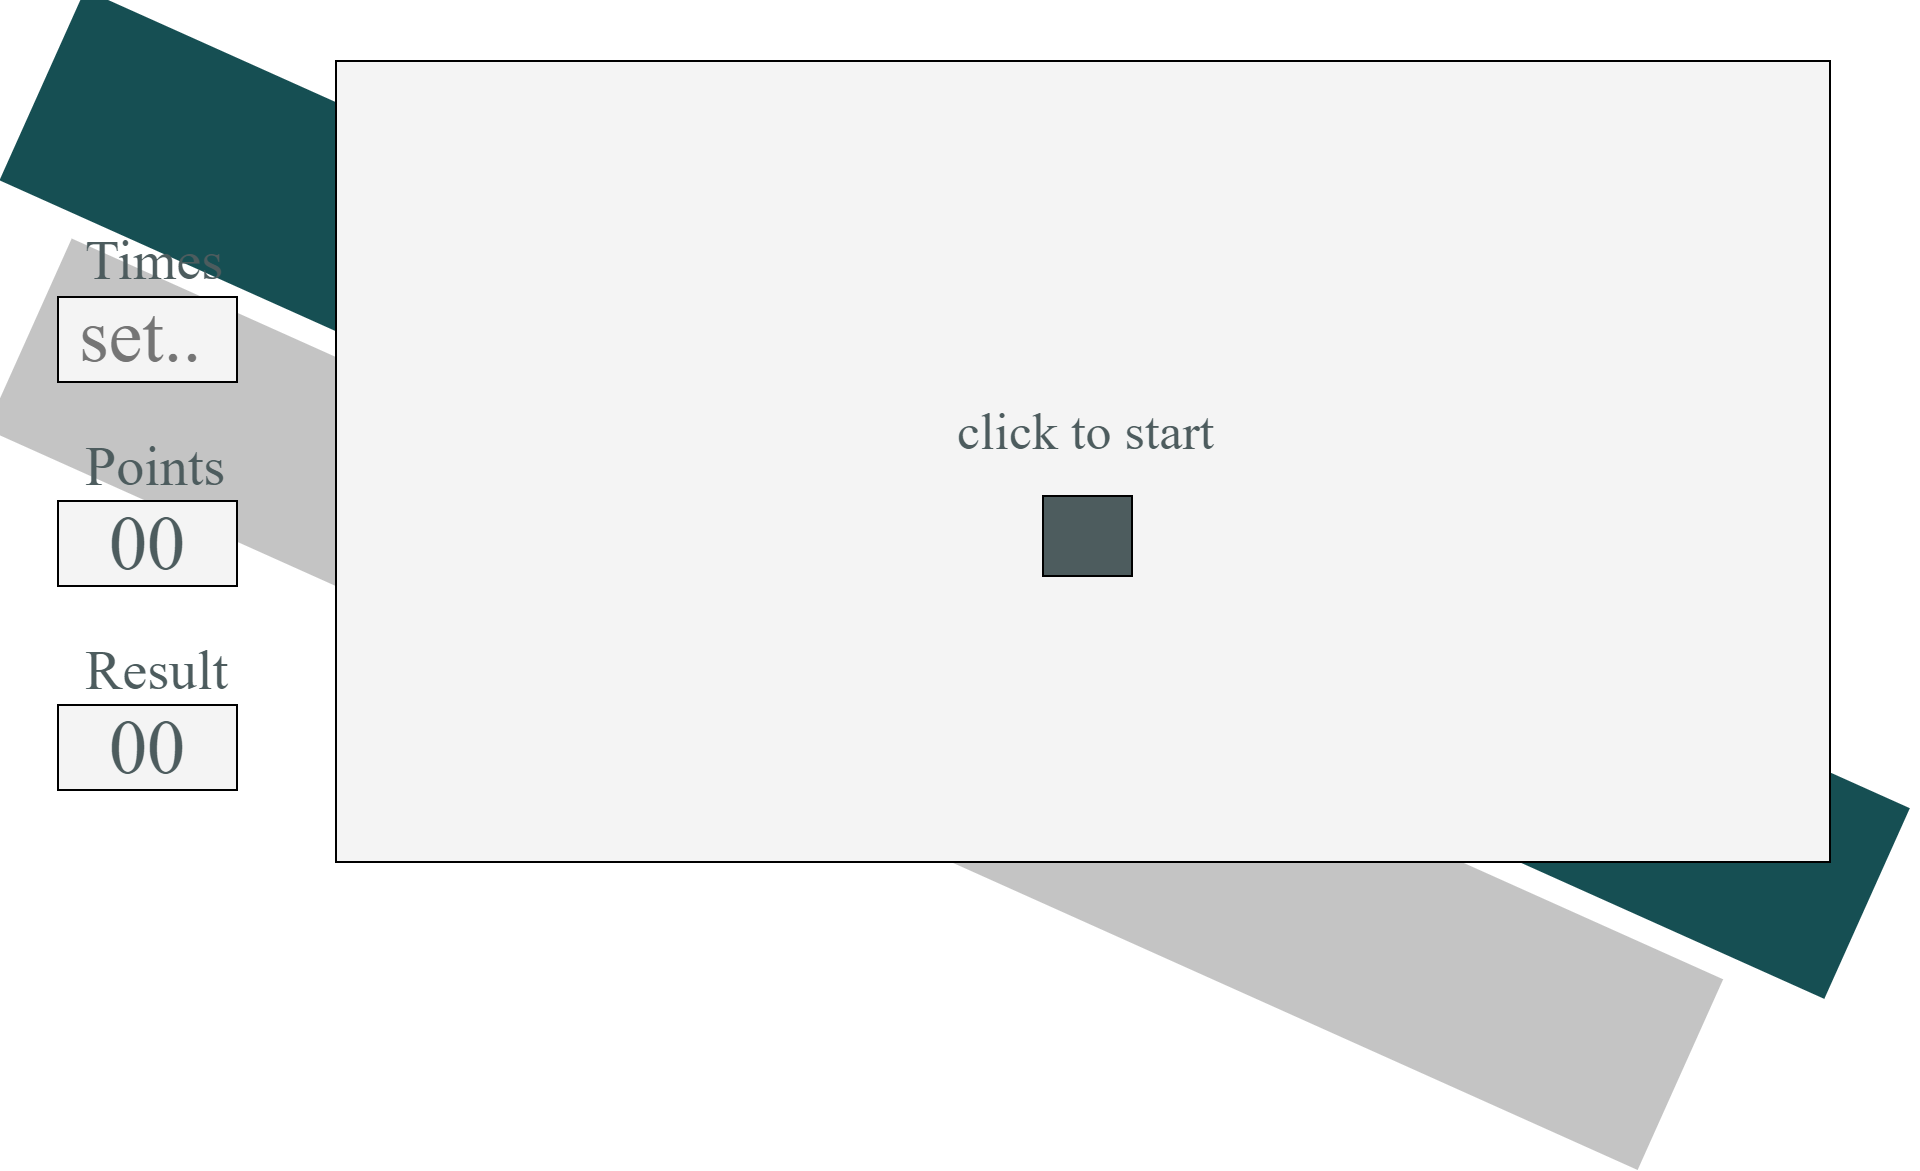
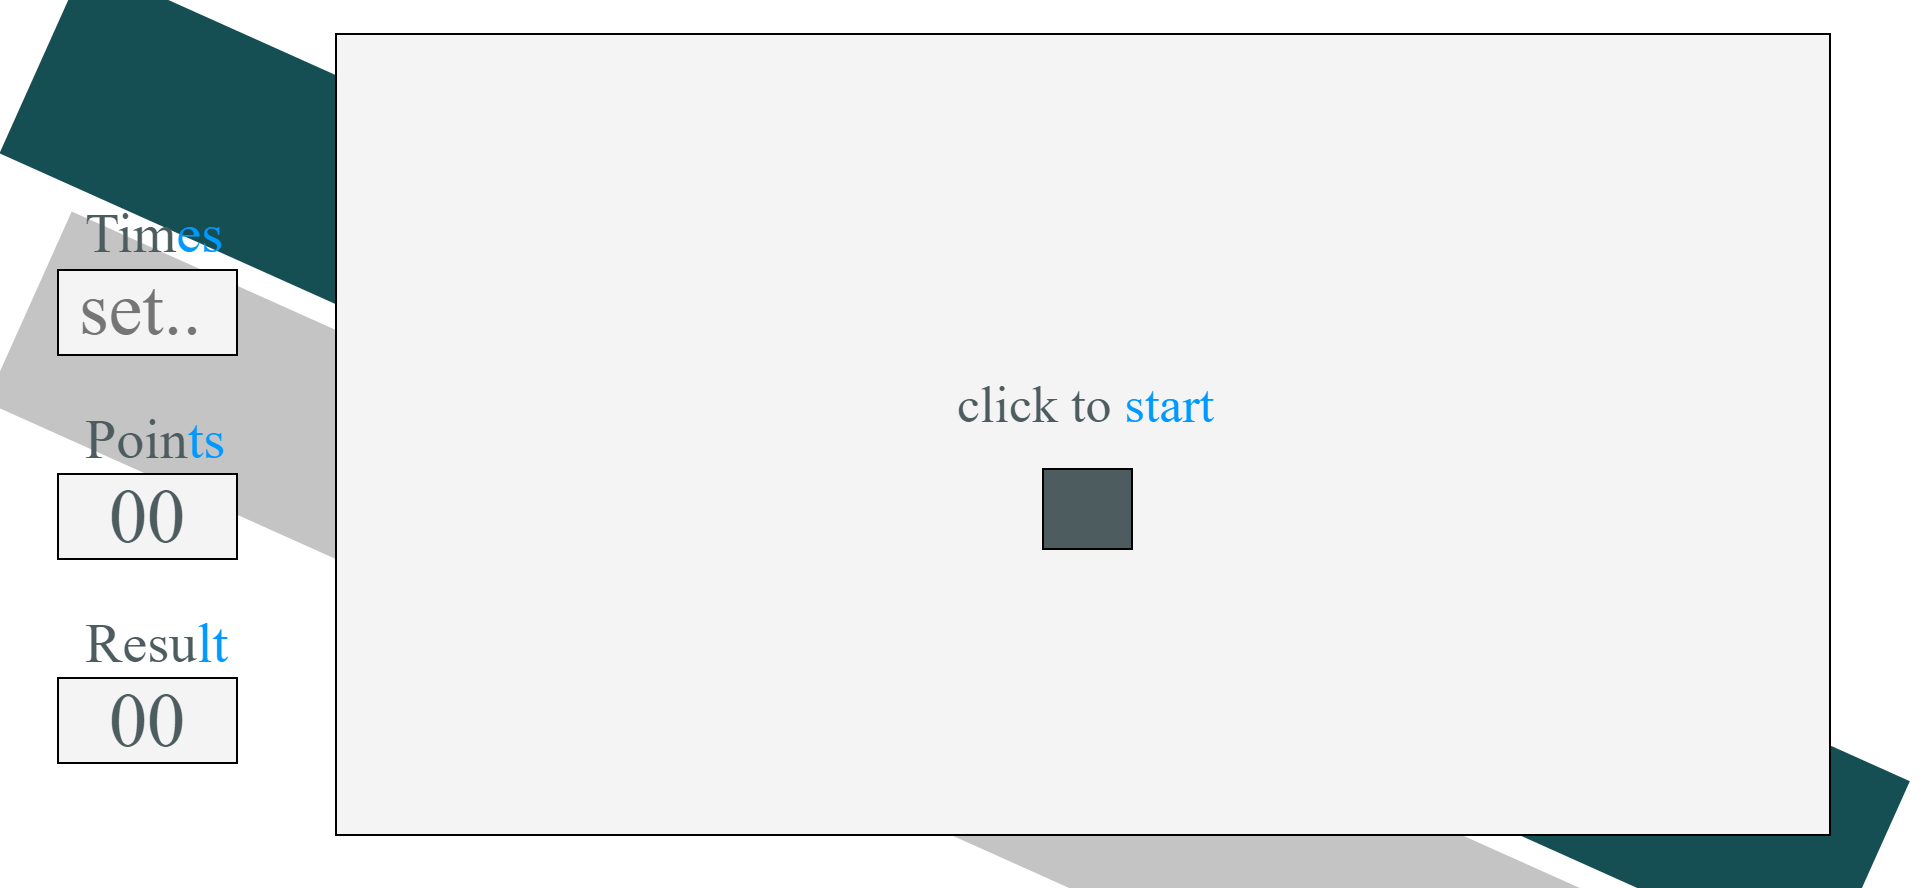
change old  pictures

diff --git a/html/index2.html b/html/index2.html
@@ -12,23 +12,23 @@
     
     <div class="page">
 
-    <div class="time-box-name">Times</div>
+    <div class="time-box-name">Tim<span style="color: rgb(0, 153, 255);">es</span></div>
     <div class="time-box">
     <div class="time"><input type="number" min="10" max="30" id="time" placeholder="set.."></div>
     </div>
 
-    <div class="points-box-name">Points</div>
+    <div class="points-box-name">Poin<span style="color: rgb(0, 153, 255);">ts</span></div>
     <div class="points-box">
     <div class="points">00</div>
     </div>
    
-    <div class="result-box-name">Result</div>
+    <div class="result-box-name">Resu<span style="color: rgb(0, 153, 255);">lt</span></div>
     <div class="result-box">
     <div class="results">00</div>
     </div>
     
     <div class="game-page">
-    <div class="name-for-start-button">click to start</div>
+    <div class="name-for-start-button">click to <span style="color: rgb(0, 153, 255);">start</span></div>
     <div class="game-page-for-cube"></div>
     <div class="start-cube"></div>
     </div>

diff --git a/html/index.html b/html/index.html
@@ -14,7 +14,7 @@
     <div class="cube"><img src="../img/cube.png" alt="Reaction cube"></div>
     <div class="cube-name"><p>Reaction cube</p></div>
     <div class="cube-description"><p>This game trains and improves your reaction. Hit the cube and improve your reaction!</p></div>
-    <div class="start-cube-name"><p>click to start</p></div>
+    <div class="start-cube-name"><p>click to <span style="color: rgb(0, 153, 255);">start</span></p></div>
     <a href="index2.html"><div class="cube-for-start"></div></a>
     <div class="welcome-page"></div>
     <div class="interface-block"></div>
